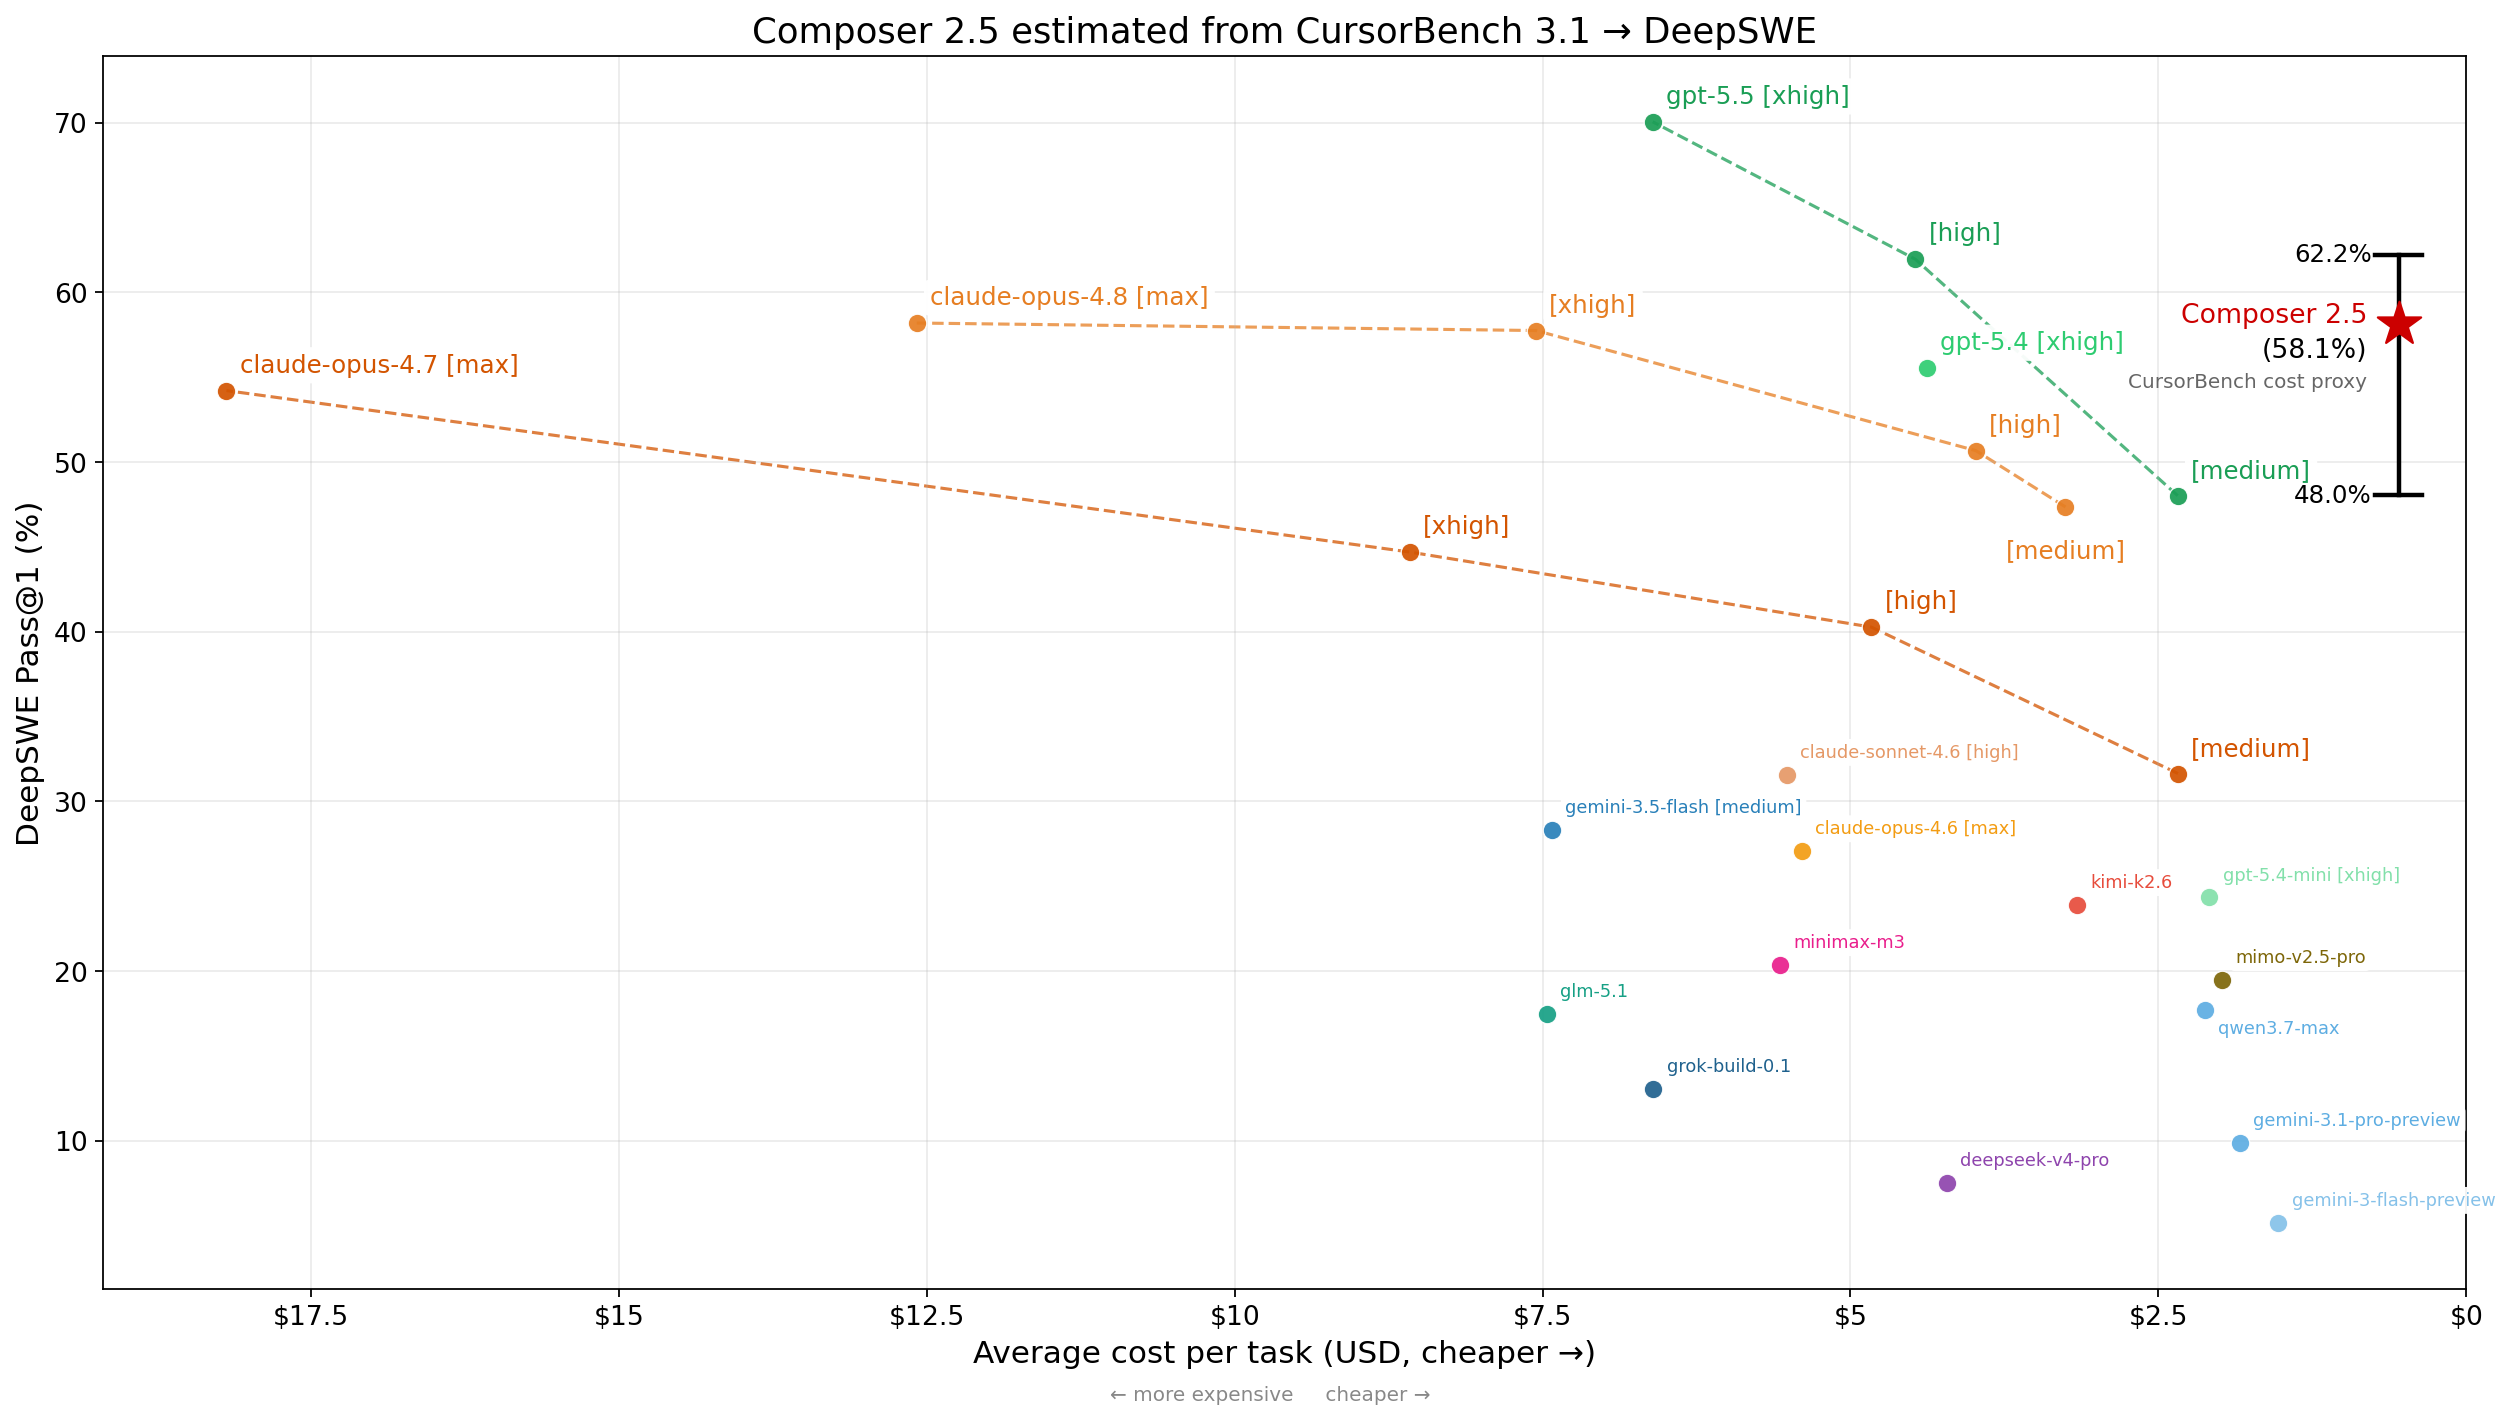
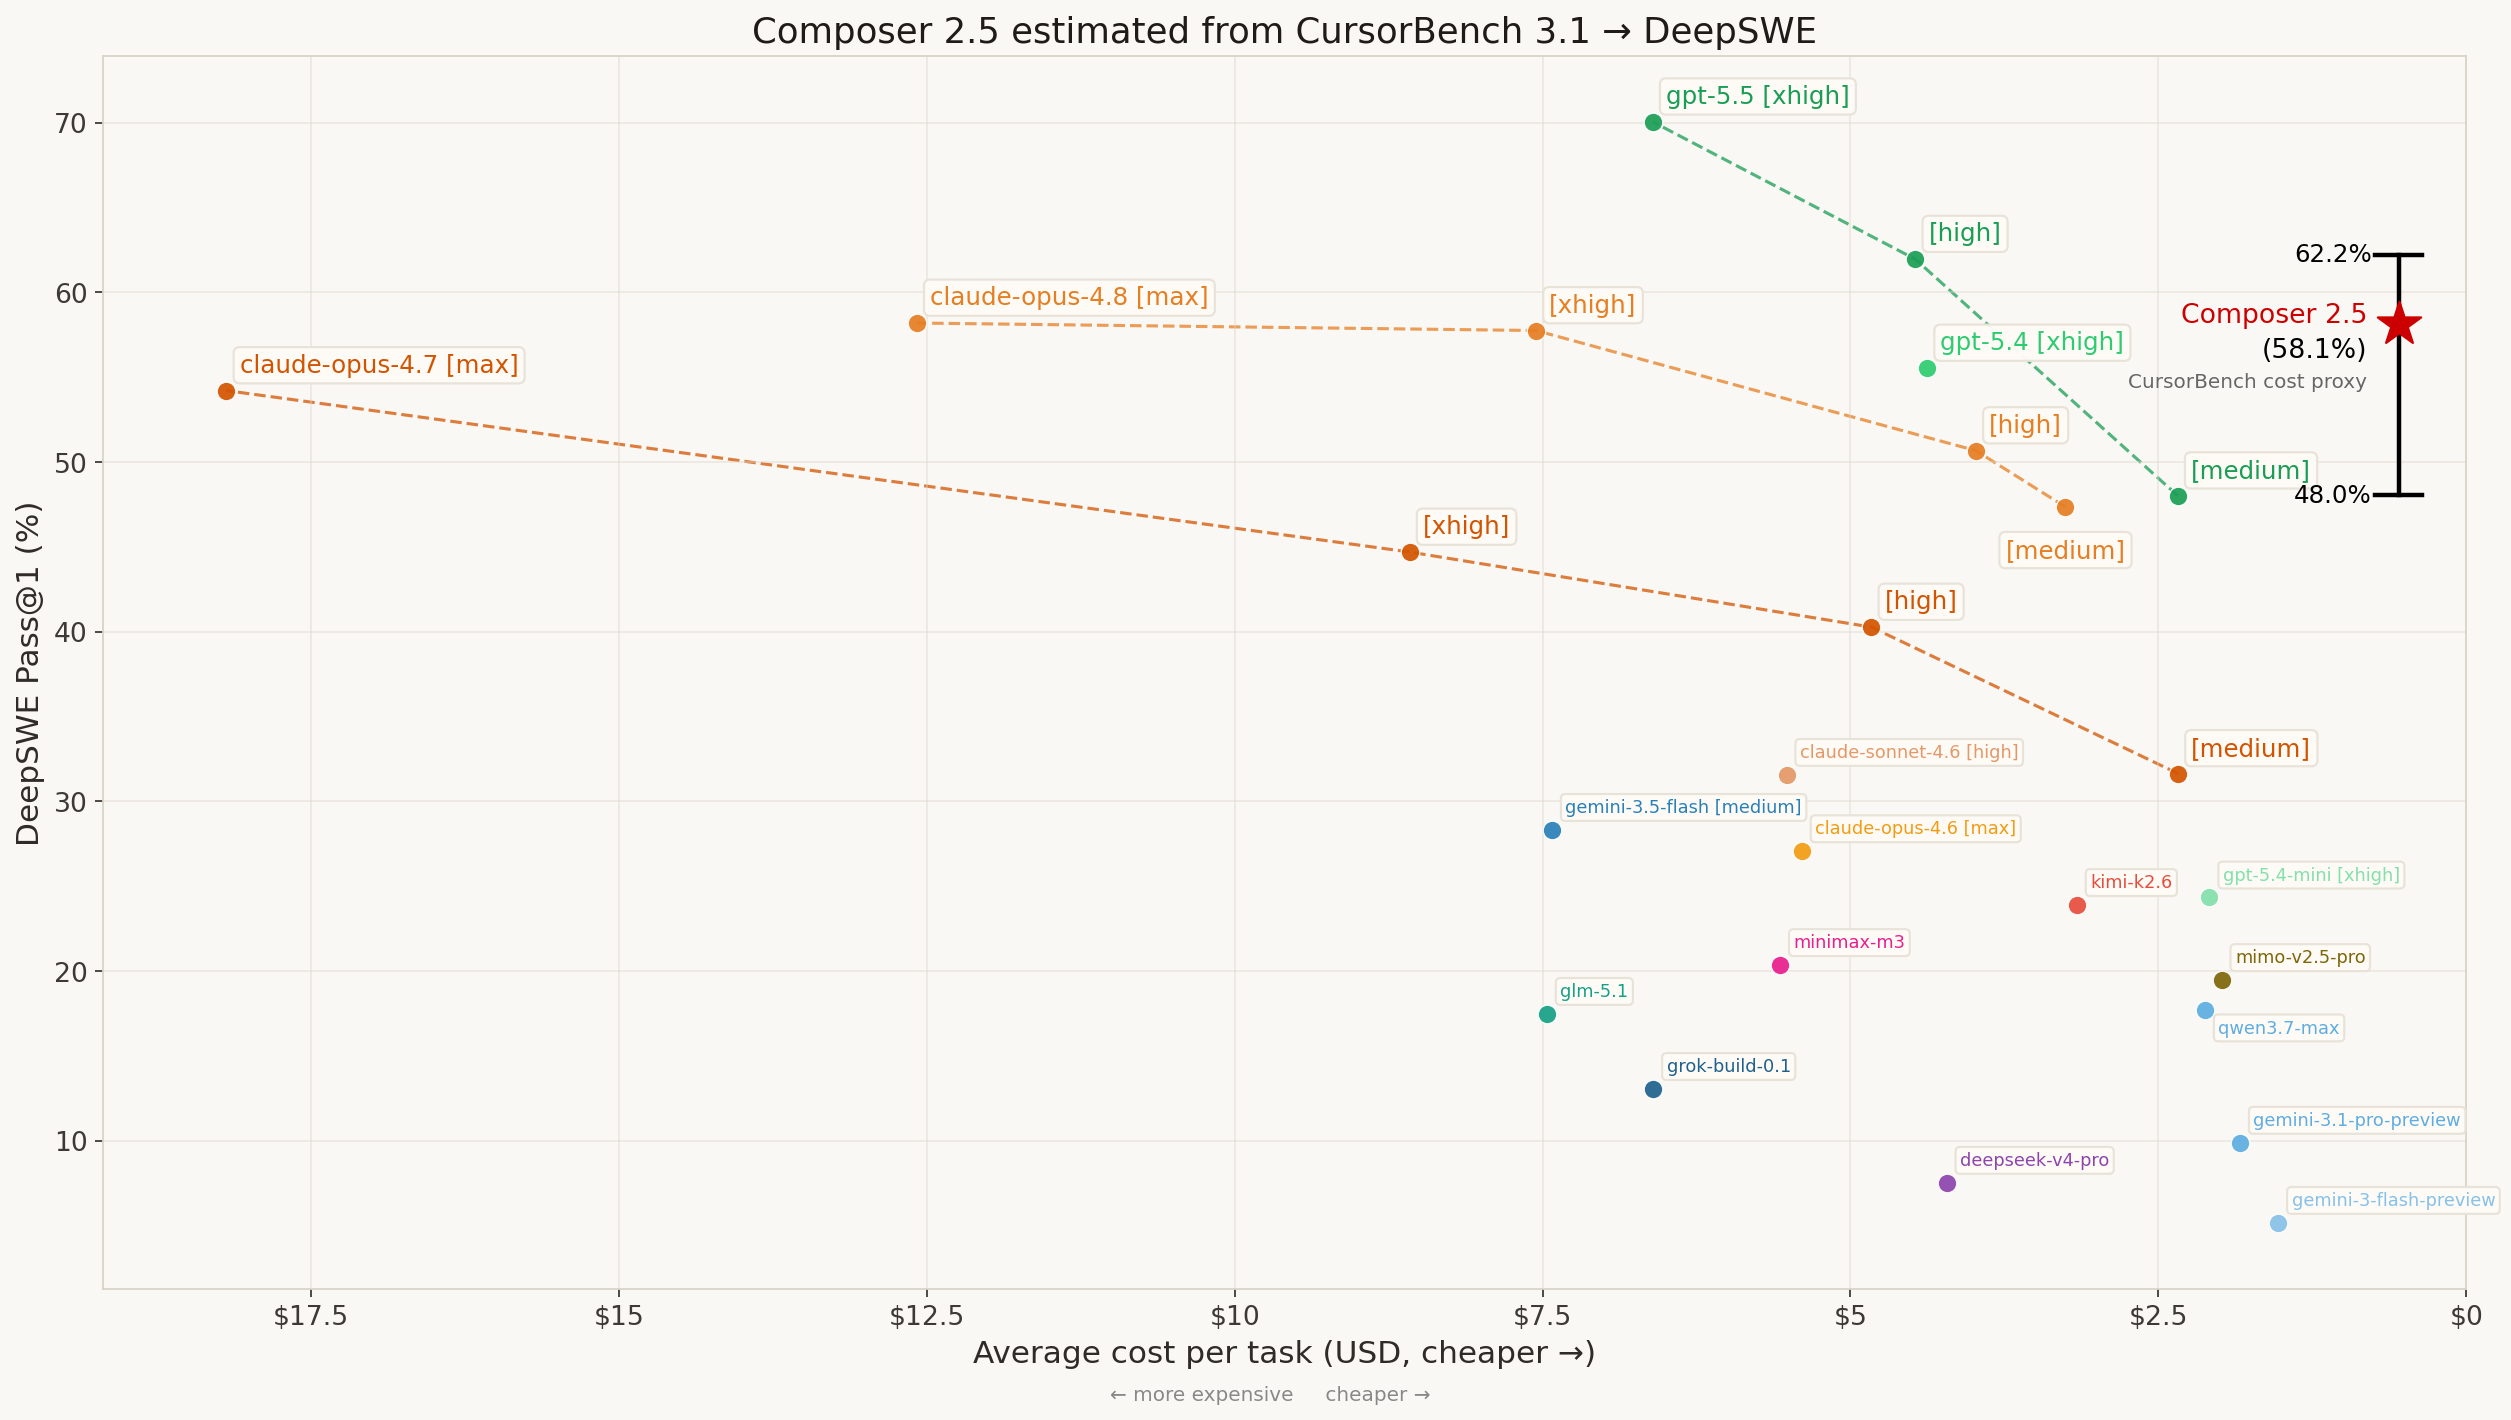
style: use warm cream background on README chart
Match DeepSWE/Claude-style off-white tone (#FAF8F4) for figure,
axes, labels, and grid styling.

diff --git a/scripts/plotting.py b/scripts/plotting.py
@@ -12,6 +12,9 @@ from matplotlib.ticker import FuncFormatter
 from common import COMPOSER_CURSOR_COST, COMPOSER_MODEL, summarize_uncertainty
 
 COMPOSER_COLOR = "#CC0000"
+CHART_BG_COLOR = "#FAF8F4"  # warm cream, close to DeepSWE / Claude site tones
+CHART_GRID_COLOR = "#DDD6CA"
+CHART_LABEL_BG = "#FFFCF8"
 CHART_SCORE_FLOOR_MODEL = "gemini-3-flash-preview"
 README_CHART_NAME = "composer_deepswe_estimate.png"
 
@@ -176,7 +179,12 @@ def _plot_deepswe_model_points(
     annotate = annotate or {}
     annotate_offsets = annotate_offsets or {}
     annotate_fontsizes = annotate_fontsizes or {}
-    label_bbox = dict(boxstyle="round,pad=0.25", facecolor="white", edgecolor="none", alpha=0.95)
+    label_bbox = dict(
+        boxstyle="round,pad=0.25",
+        facecolor=CHART_LABEL_BG,
+        edgecolor="#E8E2D8",
+        alpha=0.96,
+    )
     for model_norm, grp in deepswe.groupby("model_norm", sort=False):
         color = _model_color(str(model_norm))
         subset = grp.copy()
@@ -271,6 +279,8 @@ def plot_readme_chart(
     y_mean, y_lo, y_hi = _chart_estimate_bounds(estimates)
 
     fig, ax = plt.subplots(figsize=(16, 9))
+    fig.patch.set_facecolor(CHART_BG_COLOR)
+    ax.set_facecolor(CHART_BG_COLOR)
     _plot_deepswe_model_points(
         ax,
         plot_df,
@@ -281,14 +291,17 @@ def plot_readme_chart(
         annotate_fontsizes=label_fontsizes,
     )
 
-    ax.set_xlabel("Average cost per task (USD, cheaper →)", fontsize=14)
-    ax.set_ylabel("DeepSWE Pass@1 (%)", fontsize=14)
+    ax.set_xlabel("Average cost per task (USD, cheaper →)", fontsize=14, color="#2F2C28")
+    ax.set_ylabel("DeepSWE Pass@1 (%)", fontsize=14, color="#2F2C28")
     ax.set_title(
         "Composer 2.5 estimated from CursorBench 3.1 → DeepSWE",
         fontsize=16,
+        color="#1F1C18",
     )
-    ax.tick_params(labelsize=12)
-    ax.grid(True, alpha=0.25)
+    ax.tick_params(labelsize=12, colors="#3D3A36")
+    ax.grid(True, alpha=0.45, color=CHART_GRID_COLOR, linewidth=0.8)
+    for spine in ax.spines.values():
+        spine.set_color("#D9D3C7")
     ax.margins(x=0.04, y=0.06)
     ax.invert_xaxis()
     _format_dollar_xaxis(ax)
@@ -352,7 +365,13 @@ def plot_readme_chart(
         color="#888888",
     )
     out_path.parent.mkdir(parents=True, exist_ok=True)
-    fig.savefig(out_path, dpi=160, bbox_inches="tight", facecolor="white")
+    fig.savefig(
+        out_path,
+        dpi=160,
+        bbox_inches="tight",
+        facecolor=CHART_BG_COLOR,
+        edgecolor=CHART_BG_COLOR,
+    )
     plt.close(fig)
 
 